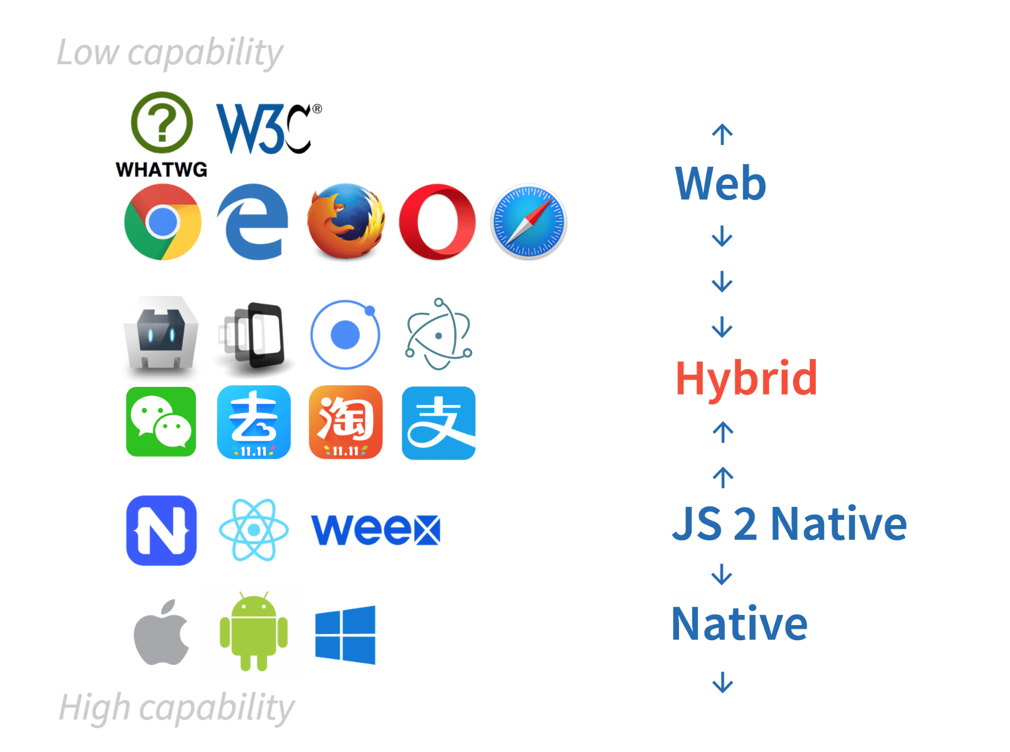
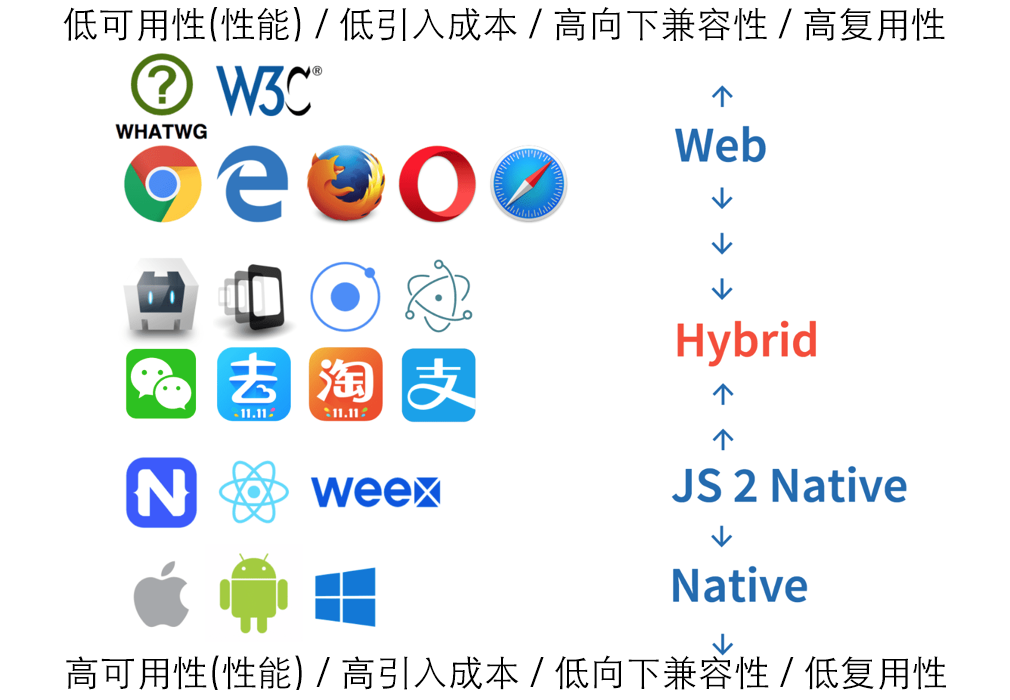
添加方案可行性分析因素

diff --git a/compare.md b/compare.md
@@ -3,29 +3,44 @@
 <!-- TOC -->
 
 - [离线化方案及对比](#离线化方案及对比)
-  - [1. 基于现有的浏览器机制](#1-基于现有的浏览器机制)
-    - [1.1 基于 HTTP 的缓存机制](#11-基于-http-的缓存机制)
-    - [1.2 Application Cache](#12-application-cache)
-    - [1.3 PWA](#13-pwa)
-  - [2. 传统 Hybrid 方案](#2-传统-hybrid-方案)
-    - [2.1 file协议方案(Cordova原理)](#21-file协议方案cordova原理)
-    - [2.2 Webview拦截方案](#22-webview拦截方案)
-  - [3. 基于开源的 Native 方案](#3-基于开源的-native-方案)
-  - [4. 方案对比](#4-方案对比)
-  - [5. 参考文献/扩展阅读](#5-参考文献扩展阅读)
+    - [1. 基于现有的浏览器机制](#1-基于现有的浏览器机制)
+        - [1.1 基于 HTTP 的缓存机制](#11-基于-http-的缓存机制)
+        - [1.2 Application Cache](#12-application-cache)
+        - [1.3 PWA](#13-pwa)
+        - [1.4 工作宝向下兼容性](#14-工作宝向下兼容性)
+    - [2. 传统 Hybrid 方案](#2-传统-hybrid-方案)
+        - [2.1 file协议方案(Cordova原理)](#21-file协议方案cordova原理)
+        - [2.2 Webview拦截方案](#22-webview拦截方案)
+    - [3. 基于开源的 Native 方案](#3-基于开源的-native-方案)
+    - [4. 方案对比](#4-方案对比)
+    - [5. 参考文献/扩展阅读](#5-参考文献扩展阅读)
 
 <!-- /TOC -->
 
-> 从纯 Web 到纯 Native，之间有许多可能的点
-> -- 贺师俊
+<br/>
 
 ![Web到Native](attachments/webtonative.png)
 
 图片截取自 [`黄玄的演讲slice`](https://huangxuan.me/sw-101-gdgdf)
 
+<br/>
+
+如上图, 从纯 Web 到纯 Native，之间有许多的解决方案. 不同方案有不同的优缺点和引入成本, 我们会从以下几点来考虑方案的可行性:
+
+* `可用性`: 是指应用接近原生的用户体验性. 性能更高, 操作更流畅
+* `引入成本`: 落地需要付出的人力和物力
+* `向下兼容性`: 应用能否在低版本的客户端中使用, 或者是否存在`回退方案`
+* `复用性`: 是否需要为每个客户端进行适配, 以及适配的成本
+* `平台兼容性`: 各种客户端平台的支持性
+
+我们需要根据自己的应用场景和团队能力去选择一个合适的方案. 主要可以划分为三种方案类型:
+
 * 基于现有的浏览器机制
 * 基于传统 Hybrid 方案
 * 基于开源的 Native 方案
+
+<br>
+<br>
 
 ## 1. 基于现有的浏览器机制
 
@@ -176,6 +191,9 @@ FALLBACK:
 <br/>
 <br/>
 
+### 1.4 工作宝向下兼容性
+
+向下兼容
 
 ## 2. 传统 Hybrid 方案
 
@@ -201,18 +219,18 @@ FALLBACK:
 
 <br/>
 
-> **为什么不内嵌到客户端**:
-> 考虑到工作宝的使用场景, 由于应用存在`使用范围`的概念, 而且不同企业,平台的应用是动态配置的.
-> 如果将前端归档全量打包进客户端会复杂化客户端构建流程, 且不灵活. 应用数量较多时, 会导致客户
-> 端安装包过于臃肿
+> **为什么不内嵌到客户端**:
+> 考虑到工作宝的使用场景, 由于应用存在`使用范围`的概念, 而且不同企业,平台的应用是动态配置的.
+> 如果将前端归档全量打包进客户端会复杂化客户端构建流程, 且不灵活. 应用数量较多时, 会导致客户
+> 端安装包过于臃肿
 > <br/><br/>
 >
 > **扩展**:
 > 1. 预加载: 客户端可以选择在合适的时机将前端归档文件下载下来, 从而避免在点击应用式花时间加载
 > 2. 增量更新：增量更新前端归档, 避免每次都下载完整的归档文件
-> 3. 考虑安全性问题. 如前端归档加密
+> 3. 考虑安全性问题. 如前端归档加密
 > 4. 支持多入口。工作宝应用一般会有多个入口：应用 Tab，会话 Tab，扩展消息，消息长按按钮。
->   客户端可以根据描述配置打开前端页面.
+>   客户端可以根据描述配置打开前端页面.
 
 <br/>
 
@@ -221,7 +239,7 @@ FALLBACK:
 * 前端实现简单( 支持 file 协议加载文件).
 * 永久缓存, 静态资源加载不需要经过网络, 可以可靠地渲染出页面
 * 支持所有客户端, 不存在兼容性问题
-* 客户端自定义实现离线化, 相比 APP Cache 机制可控性更高, 高度定制化
+* 客户端自定义实现离线化, 相比 APP Cache 机制可控性更高, 高度定制化
 
 <br/>
 
@@ -237,6 +255,10 @@ FALLBACK:
 <br/>
 <br/>
 
+**工作宝向下兼容性**
+
+TODO
+
 
 ### 2.2 Webview拦截方案
 
@@ -249,13 +271,16 @@ FALLBACK:
 
 <br/>
 
-和第一种方案相比有以下 **优点**
+和第一种方案相比有以下 **优点**
 
 * 和PWA一样, 对前端而言比较透明. 不需要修改现有的前端架构.
 * 和PWA一样渐进增强. 支持工作宝向下兼容.
-* 相比前者, 实现稍微简单. 另外可以实现共享资源的拦截, 而不是不同应用各自独立; 
+* 相比前者, 实现稍微简单. 另外可以实现共享资源的拦截, 而不是不同应用各自独立; 
 * 不需要考虑break change问题. 始终可以获取到最新的页面
 
+**工作宝向下兼容性**
+
+TODO
 
 <br/>
 <br/>
@@ -314,6 +339,9 @@ HTML5 页面的性能和用户体验和原生程序的还有一定的差距, 主
 * 潜在的风险。无法预料未来的 App Store 的审核变动. 不过有大厂打头阵，QQ，FaceBook，Ali 等大型 APP 都有用到 React Native
 * 集成难度高于前面两种方案, 不向下兼容
 
+**工作宝向下兼容性**
+
+不兼容
 
 <br/>
 <br/>

diff --git a/problems.md b/problems.md
@@ -91,7 +91,7 @@
 
     ![server bench](attachments/server-bench.png)
 
-    (这是 2014 一个数据，伺服12字节的静态资源)
+    (这是 2014年的一个数据，伺服12字节的静态资源)
 
     影响这个阶段页面加载的因素有很多, 主要因素是资源的体积大小和分配情况. 总结这个阶段我们能做些什么?
 
